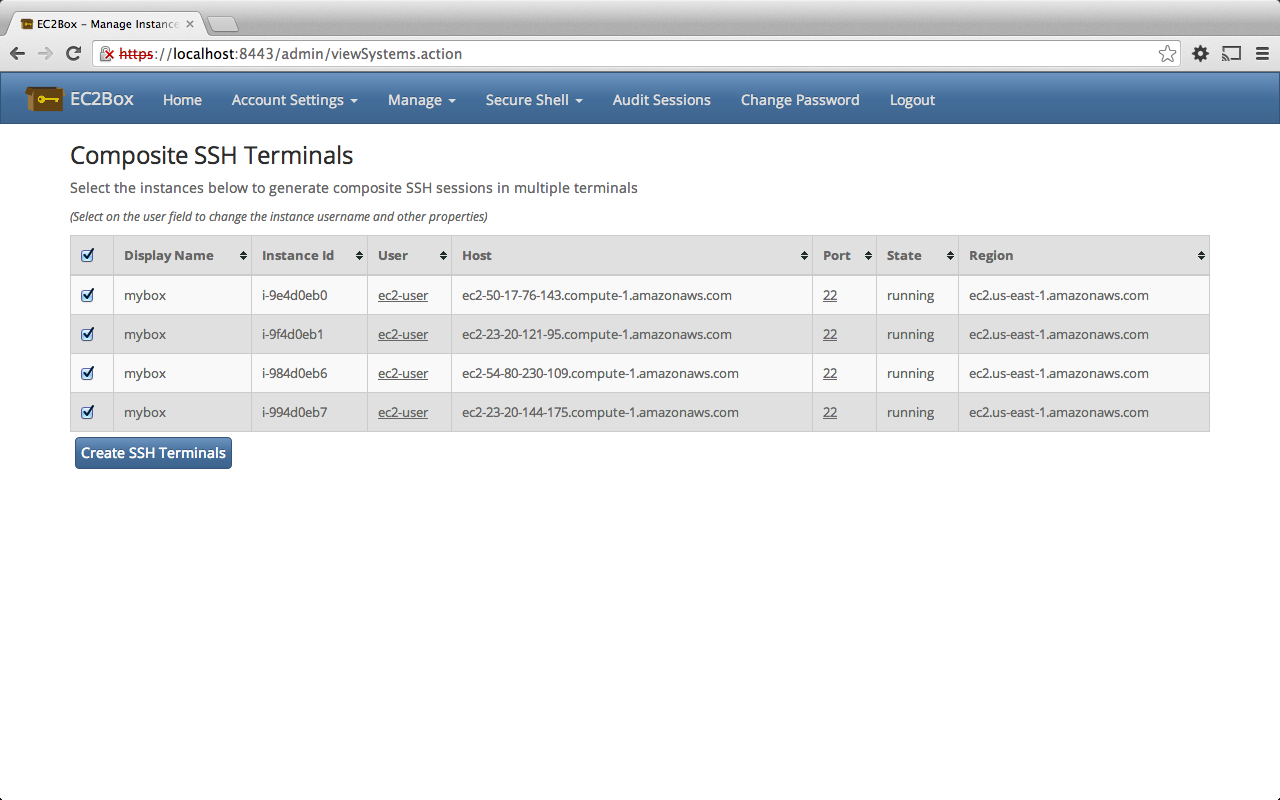
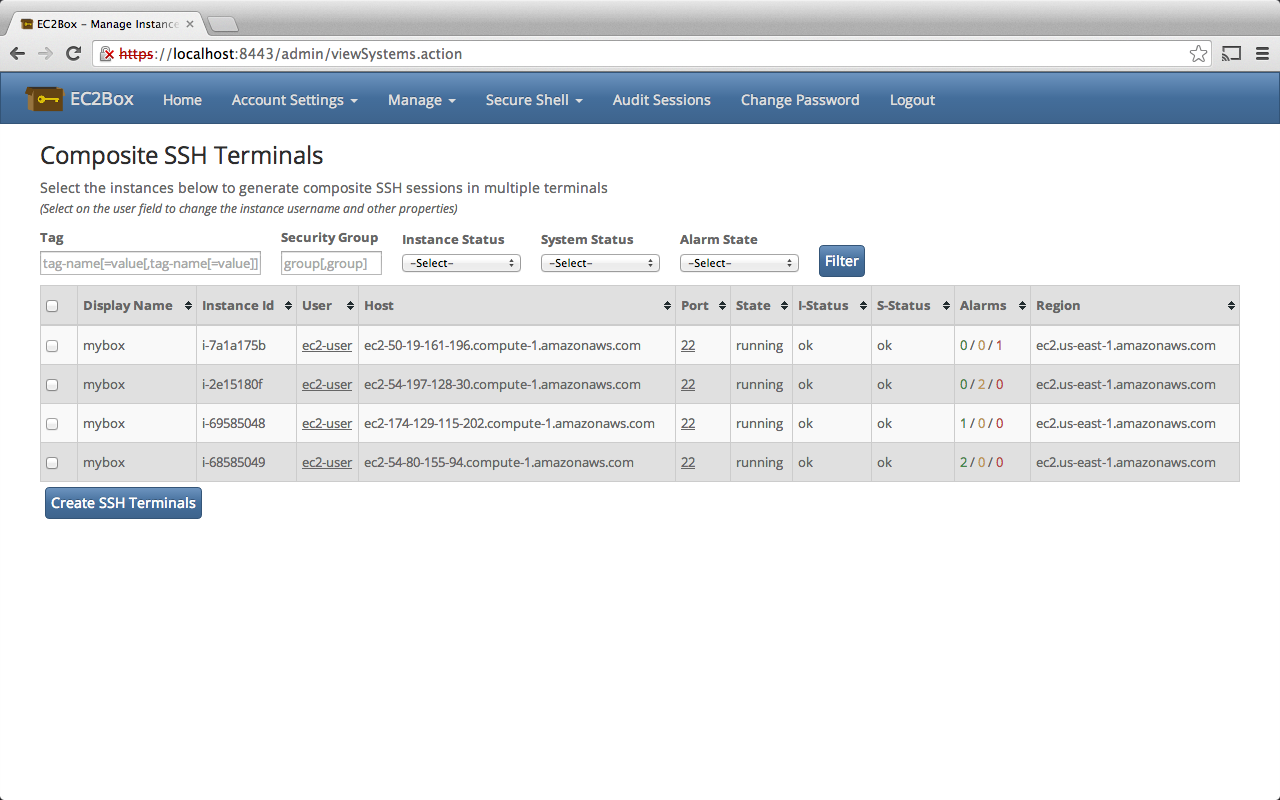
Added descriptions for new features
Added descriptions for new features

Changed region(s): [[0.0312, 0.1562, 0.9688, 0.6562], [0.9062, 0.0312, 0.9688, 0.0938]]

diff --git a/index.html b/index.html
@@ -243,6 +243,10 @@
         </div>
     </div>
 
+
+
+
+
     <hr class="featurette-divider">
     <div class="row featurette">
         <a name="terms"></a>
@@ -253,16 +257,52 @@
             <p class="lead">Execute commands on multiple instances simultaneously. Upload files to selected instances.
                 Once
                 the sessions have been opened you can select a single instance or any combination to run your
-                commands. </p>
+                commands. Sort terminal window based on a defined regular expression, terminals with the most output matches move to the top.</p>
+
+        </div>
+
+        <div class="col-md-5" >
+            <img class="featurette-image img-responsive" data-src="img/500x500/select_terminal_windows.png/500x500/auto"
+                 src="img/500x500/select_terminal_windows.png" alt="Select Terminals"/></img>
+        </div>
+    </div>
+
+    <hr class="featurette-divider">
+    <div class="row featurette">
+        <a name="filter_instances"></a>
+
+        <div class="col-md-7">
+            <h2 class="featurette-heading">Filter your instance selections. <span class="text-muted">Investigate the unhealthy ones.</span></h2>
+
+            <p class="lead">Filter the instances you want to connect to.
+                Select instances based on tags, security groups, cloud watch alerts, system status, and instance status.  </p>
+
+        </div>
+
+        <div class="col-md-5">
+            <img class="featurette-image img-responsive" data-src="img/500x500/filter_instances.png/500x500/auto"
+                 src="img/500x500/filter_instances.png" alt="Select Instances"/></img>
+        </div>
+    </div>
+
+    <hr class="featurette-divider">
+    <div class="row featurette">
+        <a name="disconnect"></a>
+
+        <div class="col-md-7" style="float:right;">
+            <h2 class="featurette-heading">Disconnect easily. <span class="text-muted">Drag to drop.</span></h2>
+
+            <p class="lead">While working with your terminals in the composite view, drag the terminal to the right-hand corner to disconnect from the session.
+           Disconnect from sessions as needed without interrupting your work.
+            </p>
 
         </div>
 
         <div class="col-md-5" style="float:left;">
-            <img class="featurette-image img-responsive" data-src="img/500x500/select_terminal_windows.png/500x500/auto"
-                 src="img/500x500/select_terminal_windows.png" alt="Select Invidual Terminals"/></img>
+            <img class="featurette-image img-responsive" data-src="img/500x500/disconnect.png/500x500/auto"
+                 src="img/500x500/disconnect.png" alt="Disconnect Sessions"/></img>
         </div>
     </div>
-
 
     <hr class="featurette-divider">
     <div class="row featurette">
@@ -272,7 +312,7 @@
             <h2 class="featurette-heading">Control user access. <span class="text-muted">Secure your instances.</span>
             </h2>
 
-            <p class="lead">Create users with limited privileges and audit their administrative activities.</p>
+            <p class="lead">Create users with limited privileges, so that they can bring up terminals too. Audit their administrative activities.</p>
 
         </div>
         <div class="col-md-5">
